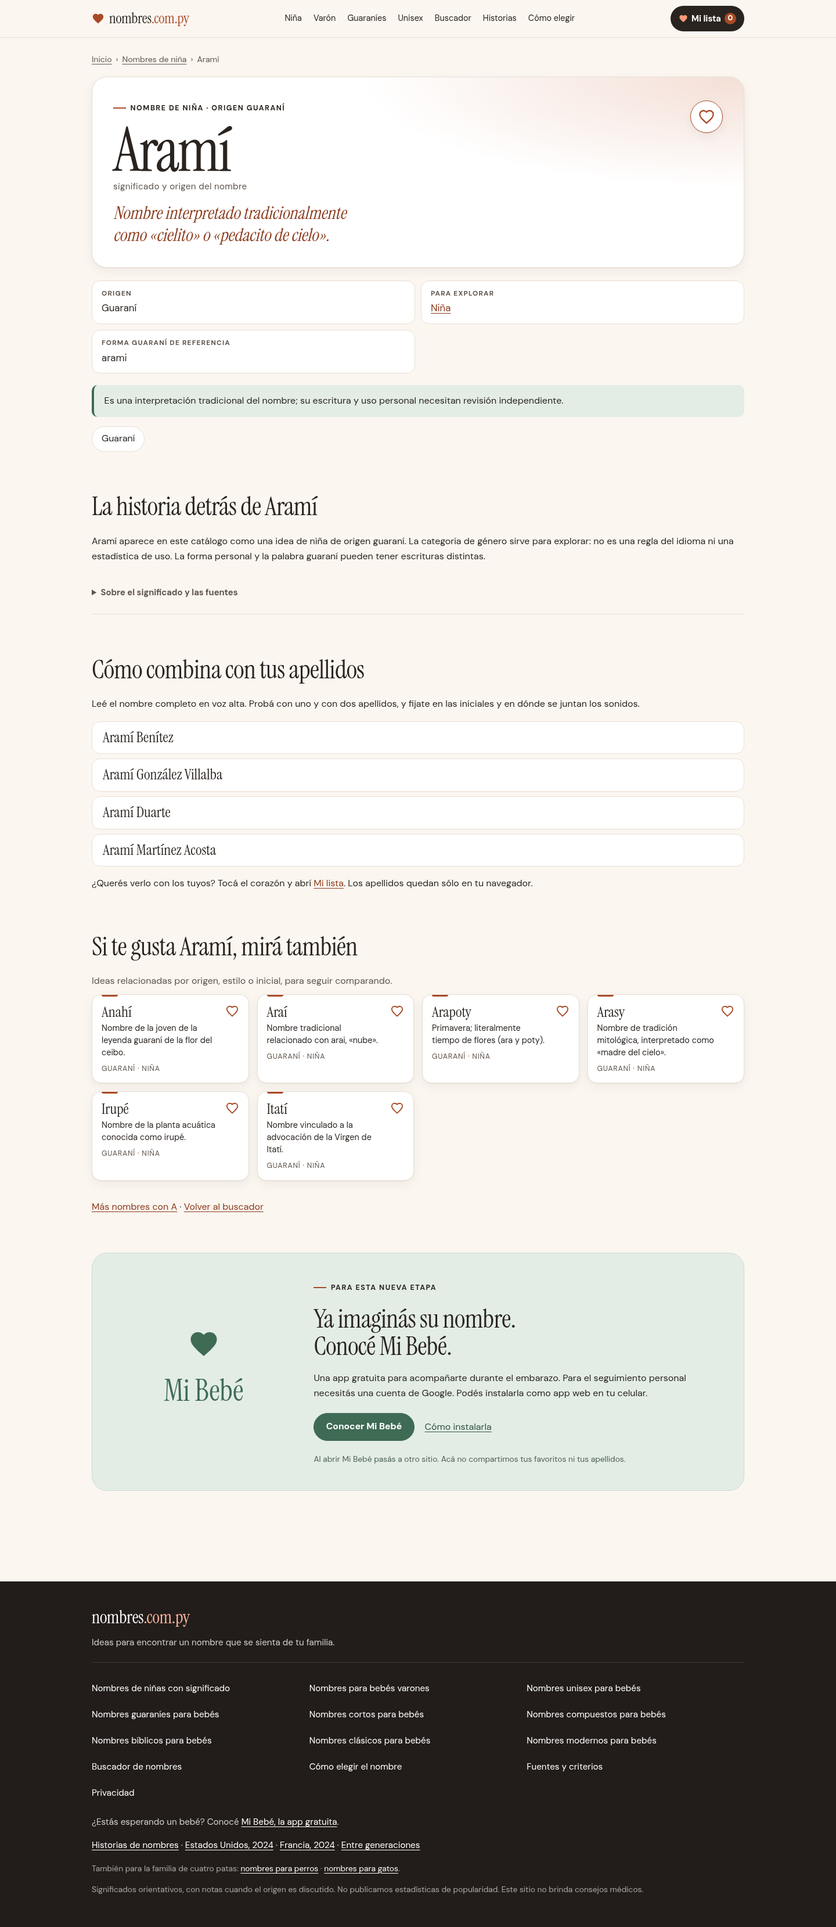
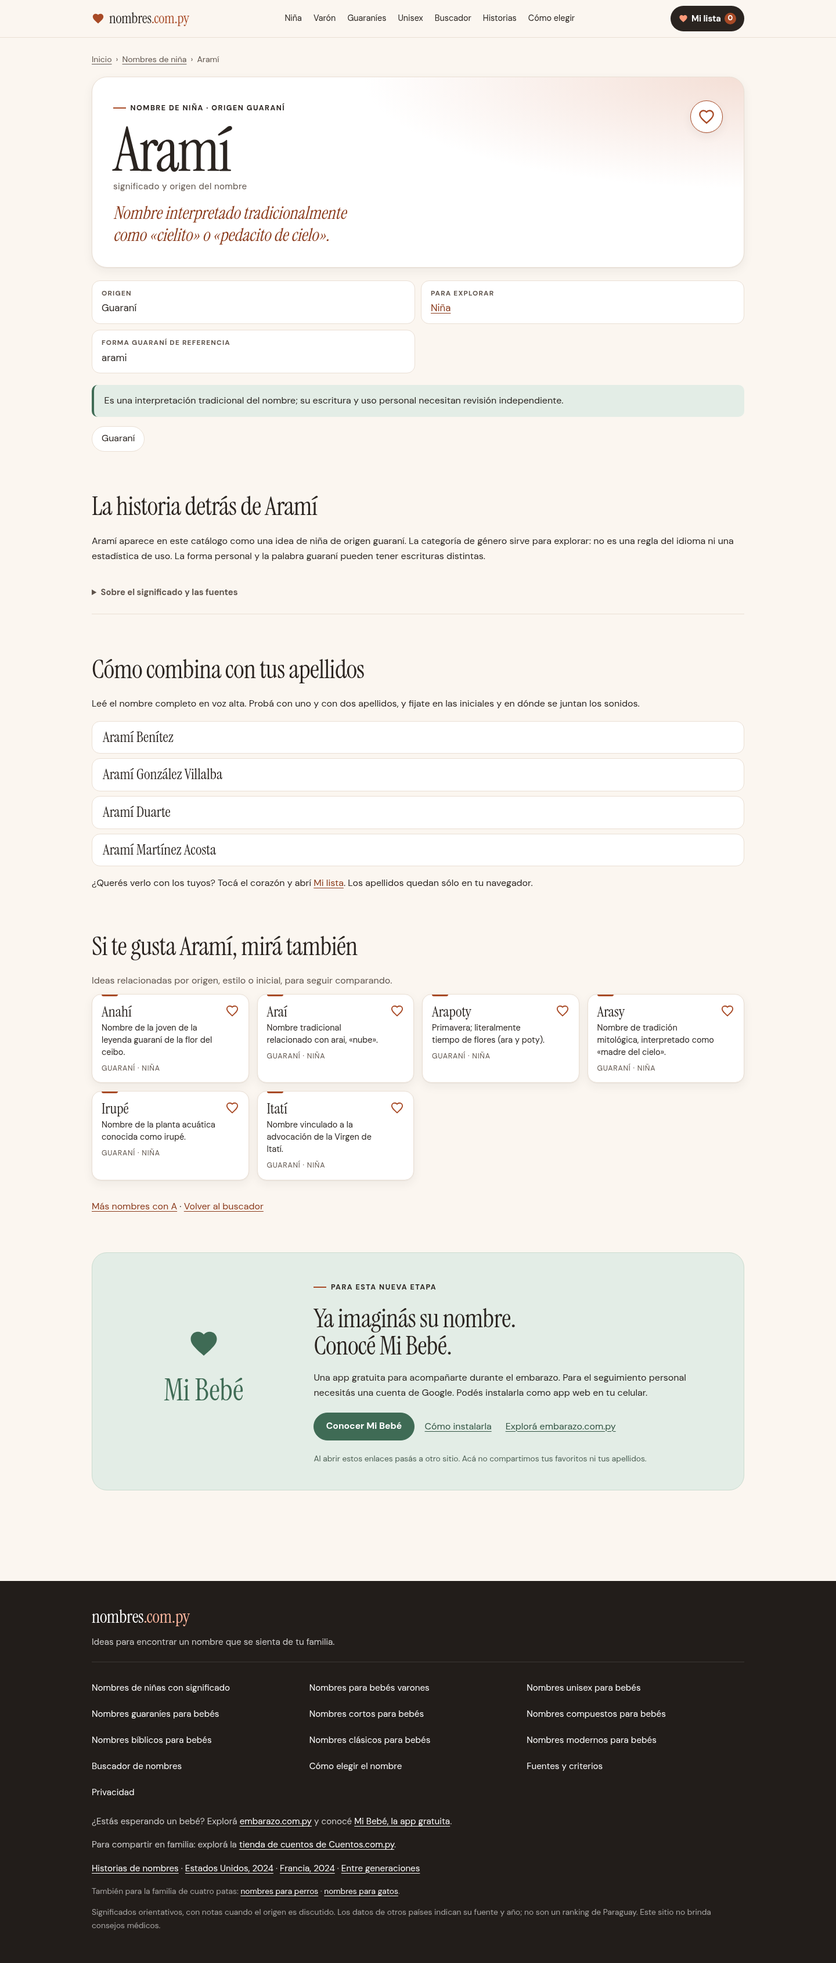
Add nofollow family-site promotions and 80 keyword research seeds

diff --git a/partials/footer.php b/partials/footer.php
@@ -1,8 +1,9 @@
 <?php declare(strict_types=1); ?>
 <footer class="site-footer"><div class="wrap"><div class="foot-top"><a class="brand brand-foot" href="/">nombres<span>.com.py</span></a><p>Ideas para encontrar un nombre que se sienta de tu familia.</p></div>
 <nav aria-label="Pie de página"><ul><?php foreach ($copy['LISTS'] as $l): ?><li><a href="<?= e($l['route']) ?>"><?= e($l['h1']) ?></a></li><?php endforeach ?><li><a href="/elegir/">Buscador de nombres</a></li><li><a href="/como-elegir-nombre-de-bebe/">Cómo elegir el nombre</a></li><li><a href="/fuentes/">Fuentes y criterios</a></li><li><a href="/privacidad/">Privacidad</a></li></ul></nav>
-<p>¿Estás esperando un bebé? Conocé <a href="<?= e($site['app']) ?>">Mi Bebé, la app gratuita</a>.</p>
+<p>¿Estás esperando un bebé? Explorá <a href="<?= e($site['pregnancy']) ?>" rel="nofollow">embarazo.com.py</a> y conocé <a href="<?= e($site['app']) ?>" rel="nofollow">Mi Bebé, la app gratuita</a>.</p>
+<p>Para compartir en familia: explorá la <a href="<?= e($site['stories_shop']) ?>" rel="nofollow">tienda de cuentos de Cuentos.com.py</a>.</p>
 <p><a href="/historias-de-nombres/">Historias de nombres</a> · <a href="/nombres-en-estados-unidos/">Estados Unidos, 2024</a> · <a href="/nombres-en-francia/">Francia, 2024</a> · <a href="/tendencias-de-nombres/">Entre generaciones</a></p>
 <p class="fine">También para la familia de cuatro patas: <a href="/nombres-para-perros/">nombres para perros</a> · <a href="/nombres-para-gatos/">nombres para gatos</a>.</p>
-<p class="fine">Significados orientativos, con notas cuando el origen es discutido. No publicamos estadísticas de popularidad. Este sitio no brinda consejos médicos.</p>
+<p class="fine">Significados orientativos, con notas cuando el origen es discutido. Los datos de otros países indican su fuente y año; no son un ranking de Paraguay. Este sitio no brinda consejos médicos.</p>
 </div></footer></body></html>

diff --git a/partials/mi-bebe.php b/partials/mi-bebe.php
@@ -1,5 +1,5 @@
 <?php declare(strict_types=1); ?>
 <aside class="app-promo" aria-label="Conocé Mi Bebé">
 <div class="app-emblem" aria-hidden="true"><svg viewBox="0 0 24 24"><use href="#h"/></svg><span>Mi Bebé</span></div>
-<div class="app-copy"><p class="kicker">Para esta nueva etapa</p><h2>Ya imaginás su nombre.<br>Conocé Mi Bebé.</h2><p>Una app gratuita para acompañarte durante el embarazo. Para el seguimiento personal necesitás una cuenta de Google. Podés instalarla como app web en tu celular.</p><p class="row"><a class="btn" href="<?= e($site['app']) ?>">Conocer Mi Bebé</a><a class="app-text-link" href="<?= e($site['install']) ?>">Cómo instalarla</a></p><p class="fine">Al abrir Mi Bebé pasás a otro sitio. Acá no compartimos tus favoritos ni tus apellidos.</p></div>
+<div class="app-copy"><p class="kicker">Para esta nueva etapa</p><h2>Ya imaginás su nombre.<br>Conocé Mi Bebé.</h2><p>Una app gratuita para acompañarte durante el embarazo. Para el seguimiento personal necesitás una cuenta de Google. Podés instalarla como app web en tu celular.</p><p class="row"><a class="btn" href="<?= e($site['app']) ?>" rel="nofollow">Conocer Mi Bebé</a><a class="app-text-link" href="<?= e($site['install']) ?>" rel="nofollow">Cómo instalarla</a><a class="app-text-link" href="<?= e($site['pregnancy']) ?>" rel="nofollow">Explorá embarazo.com.py</a></p><p class="fine">Al abrir estos enlaces pasás a otro sitio. Acá no compartimos tus favoritos ni tus apellidos.</p></div>
 </aside>

diff --git a/content/editorial.php b/content/editorial.php
@@ -544,7 +544,7 @@ return array (
       1 => 'Cuando guardás un nombre como favorito, o escribís tus apellidos en la herramienta Probá con tu apellido, esos datos se guardan sólo en tu navegador, con el almacenamiento local del dispositivo (localStorage). No se envían a ningún servidor nuestro. Si borrás los datos del navegador o usás el modo incógnito, la lista desaparece.',
       2 => 'Si copiás un enlace para compartir, incluye solamente los nombres elegidos. Cualquier persona que reciba el enlace puede verlos. Los apellidos quedan en tu navegador y nunca se incluyen en ese enlace.',
       3 => 'Como cualquier sitio web, el servidor de alojamiento puede registrar datos técnicos básicos de las visitas, como la dirección IP y el navegador, con fines de seguridad y funcionamiento.',
-      4 => 'Mi Bebé es una aplicación externa. Al abrir sus enlaces pasás a app.embarazo.com.py o embarazo.com.py, donde se aplican sus propias condiciones. Acá no usamos píxeles, parámetros de seguimiento ni scripts de terceros.',
+      4 => 'Los enlaces a Mi Bebé, embarazo.com.py y la tienda de Cuentos.com.py llevan a otros sitios, donde se aplican sus propias condiciones. Al abrirlos no compartimos tu lista de favoritos ni tus apellidos. Acá no usamos píxeles, parámetros de seguimiento ni scripts de terceros.',
     ),
   ),
   'NOT_FOUND' =>

diff --git a/content/site.php b/content/site.php
@@ -5,9 +5,11 @@ return [
     'name' => 'nombres.com.py',
     'lang' => 'es-PY',
     'locale' => 'es_PY',
+    'pregnancy' => 'https://embarazo.com.py/',
     'app' => 'https://app.embarazo.com.py/',
     'install' => 'https://embarazo.com.py/instalar/',
     'weeks' => 'https://embarazo.com.py/semana/',
+    'stories_shop' => 'https://cuentos.com.py/',
     // Rename a URL only with an explicit old => new entry here.
     'redirects' => [],
 ];

diff --git a/docs/keyword-planner-seeds-80.md b/docs/keyword-planner-seeds-80.md
@@ -1,0 +1,135 @@
+# 80 Keyword Planner research seeds
+
+Prepared 17 October 2026. These are prioritized research inputs, not measured top keywords or validated search volumes. Seventy-two baby/name seeds and eight secondary pet seeds; ten batches of eight. Do not treat individual meanings as verified merely because they are keyword seeds. Future-year and country queries are research questions, not proof of a published ranking.
+
+In Keyword Planner, use Discover new keywords with Paraguay as the location and Spanish as the language. Run each batch separately to retain varied related ideas. Keep the last 12 complete months, monthly trend columns, location/language settings and close-variant notes. Export all relevant keyword ideas and the original seeds, including low-volume/zero rows; send the raw CSV files or paste all rows. If a global comparison is useful, export it separately with its geography labeled. No paid advertising campaign or keyword volume claim is part of this preparation.
+
+## 1. Paraguay and general searches
+
+```text
+nombres de bebé
+nombres para bebés en Paraguay
+nombres paraguayos
+nombres de niña
+nombres de varón
+nombres con significado
+buscador de nombres para bebés
+significado de mi nombre
+```
+
+## 2. Girls
+
+```text
+nombres para nenas
+nombres de niña bonitos
+nombres de niña originales
+nombres de niña poco comunes
+nombres de niña cortos
+nombres de niña modernos
+nombres de niña bíblicos
+nombres compuestos para niñas
+```
+
+## 3. Boys
+
+```text
+nombres para niños
+nombres de varón bonitos
+nombres de varón originales
+nombres de varón poco comunes
+nombres de varón cortos
+nombres de varón modernos
+nombres de varón bíblicos
+nombres compuestos para varones
+```
+
+## 4. Guaraní
+
+```text
+nombres guaraníes
+nombres guaraníes para niñas
+nombres guaraníes para varones
+nombres guaraníes unisex
+nombres guaraníes cortos
+nombres guaraníes y su significado
+cómo se pronuncian los nombres guaraníes
+nombres indígenas de Paraguay
+```
+
+## 5. Styles and origins
+
+```text
+nombres unisex
+nombres bíblicos
+nombres antiguos
+nombres italianos
+nombres españoles
+nombres árabes
+nombres hebreos
+nombres de santos
+```
+
+## 6. Choosing and combinations
+
+```text
+cómo elegir el nombre de mi bebé
+nombres que combinen con el apellido
+segundos nombres para bebés
+nombres que combinen con María
+nombres que combinen con Juan
+nombres para gemelos
+nombres para mellizos
+nombres para hermanos
+```
+
+## 7. Individual meanings
+
+```text
+Aramí significado
+Jasy significado
+Yvoty significado
+Ñasaindy significado
+Mateo significado
+Sofía significado
+Benjamín significado
+Thiago significado
+```
+
+## 8. Trends and countries
+
+```text
+nombres populares en Paraguay
+nombres de bebé 2026
+nombres de bebé 2027
+nombres populares en Argentina
+nombres populares en Brasil
+nombres populares en España
+nombres populares en Estados Unidos
+nombres populares en Francia
+```
+
+## 9. Initials, themes and history
+
+```text
+nombres con A
+nombres con M
+nombres con S
+nombres inspirados en la naturaleza
+nombres que significan amor
+nombres que significan luz
+nombres que significan fuerza
+historia de los nombres
+```
+
+## 10. Pets (secondary)
+
+```text
+nombres para perros
+nombres para perritas
+nombres para perros machos
+nombres para perros en guaraní
+nombres para gatos
+nombres para gatas
+nombres para gatos machos
+nombres originales para mascotas
+```

diff --git a/docs/validation.md b/docs/validation.md
@@ -12,15 +12,19 @@
 - SQL failure tests: socket outage serves stale valid cache, no cache falls back to packaged file, and malformed source data entered directly in SQL is rejected while the last valid snapshot remains public. Twelve consecutive warm name-page requests produced **zero additional SQL SELECTs**. These tests used only the isolated local `nombres_test` fixture.
 - Chromium through Apache: **146 explicit layout/privacy checks**, plus search/favorites/surname/duel/sharing/storage assertions. Widths **360, 375, 768, 1024, 1440**, including with body clipping disabled: no horizontal document overflow. Mobile menu, Escape/focus, French diacritics, actual country narrative/table rendering, no-JS search and 48-result second-page navigation are covered.
 - Browser sessions observed no uncaught JavaScript errors, cookies, third-party resource requests or data-submission requests. Screenshots/report are under `docs/screenshots/` and `docs/browser-report.json`.
-- Final runtime artifact: **37 files**, byte-identical to their runtime sources; ZIP **148,758 bytes**. Tools/tests/docs/schema/credentials/Git are excluded. Separate phpMyAdmin SQL artifact: **574,202 bytes**, never inside the public ZIP. Artifacts can be regenerated; minor archive compression/timestamp variation is possible.
+- Final runtime artifact: **37 files**, byte-identical to their runtime sources; ZIP **148,947 bytes**. Tools/tests/docs/schema/credentials/Git are excluded. Separate phpMyAdmin SQL artifact: **574,202 bytes**, never inside the public ZIP. Artifacts can be regenerated; minor archive compression/timestamp variation is possible.
 - Local production Host-header rules redirect HTTP/www to HTTPS apex with path/query preserved. Compression, versioned asset cache headers, private-path denial and ACME challenge routing were exercised through actual Apache rules.
+
+## Nofollow promotion and keyword follow-up
+
+The subsequent link/copy revision passed **149,113 crawl checks** across **719 pages / 718 sitemap URLs** against the source checkout and runtime artifact, plus **146 layout/privacy checks** in Chromium through Apache. A focused check verified **48 promotion links on nine representative routes**: all pregnancy website, app, install-guide and Cuentos.com.py links carry `rel="nofollow"` and no tracking query. No remote resources were added. The earlier real SQL integration and full Apache crawl above remain the storage/router evidence; this follow-up does not change either implementation. Exactly 80 unique research seeds are provided in ten categories of eight, with no invented volumes.
 
 ## Local transfer measurements
 
 | Response | Gzip body bytes |
 |---|---:|
-| Home HTML | 6,588 |
-| Picker HTML (48 initial results) | 6,559 |
+| Home HTML | 6,679 |
+| Picker HTML (48 initial results) | 6,660 |
 | CSS | 5,997 |
 | JavaScript | 4,304 |
 | Lazy public name JSON | 14,645 |

diff --git a/README.md b/README.md
@@ -1,6 +1,6 @@
 # nombres.com.py
 
-A fast baby-name site for families in Paraguay. Spanish with voseo, PHP 8.2+, local fonts and assets, an editable PHP catalog and optional MySQL storage. No Composer or Node at runtime, analytics, tracking cookies, third-party scripts, lead forms or WhatsApp calls to action. The business goal is introducing expecting parents to **[Mi Bebé](https://app.embarazo.com.py/)** through plain links.
+A fast baby-name site for families in Paraguay. Spanish with voseo, PHP 8.2+, local fonts and assets, an editable PHP catalog and optional MySQL storage. No Composer or Node at runtime, analytics, tracking cookies, third-party scripts, lead forms or WhatsApp calls to action. The main business goal is introducing expecting parents to **[Mi Bebé](https://app.embarazo.com.py/)**. Plain `rel="nofollow"` links also promote the owner's pregnancy website and Cuentos.com.py story store; no shopping or tracking integration is loaded.
 
 ## Run and verify
 
@@ -64,5 +64,7 @@ The structure follows the `antonmarklundcom/php-site-template` repository's cont
 The original babyshower promotion linked to `https://babyshower.com.py/`, `/revelacion-de-genero/` and `/bienvenida-de-bebe/`. It has been replaced in rendered pages by Mi Bebé. Archived legacy source under `tools/legacy/` retains the migration input and is never served or included in the ZIP.
 
 The original Windows brief, manuals and custom skills were unavailable in the cloud. [The handoff](docs/manuals/nombres/README.md) includes proposed registry entries for your laptop; no claim is made that `C:` or `E:` was changed. No keyword volumes are invented; [SEO seeds](docs/seo-plan.md) are ready for a Keyword Planner export.
+
+For the current research round, use [80 categorized seeds](docs/keyword-planner-seeds-80.md), [a flat paste list](docs/keyword-planner-seeds-80.txt), or [the categorized CSV](docs/keyword-planner-seeds-80.csv). These are discovery inputs, not measured top-80 keywords.
 
 Higgsfield was requested with a 50-credit ceiling, but no callable Higgsfield MCP was available. No images were generated and no credits spent. [Art direction](docs/higgsfield-art-direction.md) records the proposed next step. [Future monetization ideas](docs/monetization-plan.md) are a separate proposal, with no products, partners or payment integrations activated.

diff --git a/docs/launch-tomorrow.md b/docs/launch-tomorrow.md
@@ -7,7 +7,7 @@ Nothing else needs approving tonight for the prepared code. It has not been merg
 3. Download `nombres-catalog.sql` from the workflow artifact (or generate it with `php tools/database.php sql-export`) and import it in phpMyAdmin. Expect 672 rows. Keep the SQL file outside `public_html`.
 4. Set up Hostinger Git for `antonmarklundcom/nombres`, `master`, deployment directory `public_html`. There is **no build/install command**. Back up/inspect any existing files before preparing the directory; the owner reported only a default page. Use one Git deploy after merge, with `.htaccess` included. Do not also upload the ZIP.
 5. Copy `config.example.php` to private `../nombres-config.php`, enter the actual database values securely, set `storage` to `mysql`, and ensure private `../nombres-cache` is writable by PHP. Temporarily enable diagnostics and check `X-Nombres-Storage: mysql` or `mysql-cache`, then turn diagnostics off. Full steps: [database.md](database.md).
-6. Verify live HTTPS home, a name with accents, a category, both country articles, search, favorites, Mi Bebé links, `/sitemap.xml`, `/robots.txt` and an unknown URL. Confirm private files return 404 and HTTP/www redirect to the HTTPS apex. Run the read-only crawler from this revision against the live domain: `python3 tests/crawl.py --base https://nombres.com.py`.
+6. Verify live HTTPS home, a name with accents, a category, both country articles, search, favorites, nofollow links to the pregnancy website/app and Cuentos.com.py, `/sitemap.xml`, `/robots.txt` and an unknown URL. Confirm private files return 404 and HTTP/www redirect to the HTTPS apex. Run the read-only crawler from this revision against the live domain: `python3 tests/crawl.py --base https://nombres.com.py`.
 7. Only after the live checks pass, enable Mi Bebé's `nombres_link` flag in that separate app. This task did not edit the app. Verify Search Console ownership and submit `https://nombres.com.py/sitemap.xml`; check actual indexing and mobile performance after launch.
 
 If the database takes longer, file mode is a complete launch option. MySQL is not needed for search engines to crawl the site. Switch later after importing and validating the same catalog. Preserve database backups before subsequent edits/deployments; never auto-seed over live edits.

diff --git a/docs/seo-plan.md b/docs/seo-plan.md
@@ -25,6 +25,8 @@ Search Console is enough to begin measuring search visibility without visitor pi
 
 ## Keyword Planner export seeds
 
+The current owner research batch has [exactly 80 seeds](keyword-planner-seeds-80.md), ten categories of eight. [Flat paste list](keyword-planner-seeds-80.txt); [categorized CSV](keyword-planner-seeds-80.csv). Seventy-two concern babies/names and eight concern pets. They are prioritized discovery seeds, not known top-volume keywords. Run batches separately and keep all relevant related ideas for the subsequent clustering/content plan.
+
 Target Paraguay, Spanish, and export raw CSV with location, language, date range, monthly trends and close-variant grouping. Keep accents and query variants. A separate worldwide/region comparison can clarify sparse local results; do not silently mix its volumes with Paraguay.
 
 | Cluster | Seeds |
@@ -45,4 +47,4 @@ Useful future pieces could explain Guaraní word versus adapted personal name, a
 
 A yearly source refresh should verify methodology and update the existing stable country URLs. Preserve original spellings and distinguish recorded sex categories from editorial gender labels. Never imply that a Spanish, Basque, Mapuche or foreign name is Guaraní merely because it occurs in Latin America.
 
-The only active promotion is Mi Bebé through plain links. Later name-print products are a separate proposal in `monetization-plan.md`; no storefront, affiliate links, ads, payments or data collection are implemented. Any outreach or commercial integration needs its own owner decision.
+The main promotion is Mi Bebé. The owner's pregnancy website and Cuentos.com.py story store also have plain `rel="nofollow"` links; the story link is secondary in the footer. Citations and internal name links retain their normal behavior. These link attributes do not guarantee a ranking benefit. Later name-print products are a separate proposal in `monetization-plan.md`; no storefront, affiliate links, ads, payments or data collection are implemented on this site. Any outreach or additional commercial integration needs its own owner decision.

diff --git a/docs/review-summary.md b/docs/review-summary.md
@@ -6,6 +6,7 @@ Replace the generated static site with PHP 8.2 templates and a single selected c
 - Add a connected Spanish history/trends section and U.S./France 2024 tables extracted from checked, pinned data copies. Keep country/year, spelling, precision and coverage explicit; no invented Paraguay popularity or 2026 rankings.
 - Add optional MySQL storage with utf8mb4 schema, private configuration example, phpMyAdmin import artifact, validated transactional editing CLI, public catalog cache and outage fallback. File mode remains a complete launch option. Database edits survive Git deploys; seeding is never automatic.
 - Limit server search to 48 results per page, retain accent-insensitive/no-JS search, add an accessible mobile menu and keep all assets local. Preserve local-only favorites, surnames, comparison and fragment sharing. Babies stay primary; pets are secondary.
+- Use nofollow text links for the owner's pregnancy website, Mi Bebé app/install guide and a secondary Cuentos.com.py story-store promotion. Keep citations and internal discovery links unaffected; add no remote assets or tracking. Include exactly 80 categorized Keyword Planner discovery seeds without invented volumes.
 - Include CI, runtime ZIP/SQL packaging, source/audit evidence, screenshots, SEO export seeds, tomorrow's launch checklist and operations-manual proposals. Future printed-name products and pending Higgsfield art are private proposals, not active storefronts or external integrations.
 
 Validation: PHP 8.2 lint, file catalog editing tests, statistical snapshot checks, full source/artifact/SQL crawls, real MariaDB imports/Unicode edits/cache invalidation/outage fallback, and Chromium interaction/layout checks at 360/375/768/1024/1440. See `docs/validation.md` for final counts and limitations. Remote CI and production Hostinger behavior must be checked separately.

diff --git a/docs/manuals/nombres/README.md b/docs/manuals/nombres/README.md
@@ -9,7 +9,7 @@ Prepared 17 October 2026. This is a repository copy for the owner's operations m
 - Public site: `https://nombres.com.py/`; deployment remains an owner hPanel action after approval/merge. Local validation does not establish live status.
 - Runtime: PHP 8.2+, Apache/LiteSpeed rewrite support; no Node runtime or package install. File mode needs no secrets; optional MySQL needs PDO MySQL, private credentials and a private writable cache.
 - Catalog: packaged `content/names.php`, optional `nombres_names` SQL table. File CLI: `tools/names.php`; SQL CLI: `tools/database.php`. Never auto-seed over database edits. See `docs/content-model.md` and `docs/database.md`.
-- Purpose: Spanish baby-name discovery for Paraguayan families, directing parents to Mi Bebé via plain links. Pet names are a secondary area.
+- Purpose: Spanish baby-name discovery for Paraguayan families, directing parents to Mi Bebé via plain nofollow links, with the owner's pregnancy website and a secondary Cuentos.com.py story-store link. Pet names are a secondary area.
 - App: `https://app.embarazo.com.py/`, free, Google account for personal tracking, installable web app. Install guide: `https://embarazo.com.py/instalar/`. Weekly pages: `https://embarazo.com.py/semana/<1-42>/`.
 - Reciprocal app flag: `nombres_link`, currently off according to the owner. Enable only after the site is deployed and checked live.
 - Verification: `./verify.sh`; optional browser dependency setup then `python3 tests/browser.py`; `python3 deploy/make-zip.py`; `./verify.sh --root dist/nombres-hostinger`.

diff --git a/docs/monetization-plan.md b/docs/monetization-plan.md
@@ -1,6 +1,6 @@
 # Future name-product proposal — not implemented
 
-The active business goal is helping expecting parents discover Mi Bebé through plain links. Baby-name usefulness, source quality, speed and trust come first. No product storefront, affiliate, partner relationship, price, payment integration, ad, tracking pixel, order form or outreach has been activated.
+The main business goal is helping expecting parents discover Mi Bebé through plain nofollow links, alongside the owner's pregnancy website. A secondary nofollow footer link now points to the owner's existing Cuentos.com.py story store, as requested. This is an outbound link, without an embedded checkout, remote scripts, personal data transfer or tracking parameters. Baby-name usefulness, source quality, speed and trust come first. No new product storefront, affiliate, partner relationship, price, payment integration, ad, tracking pixel, order form or outreach has been activated on nombres.com.py.
 
 Potential later products include nursery name prints, birth-announcement templates, personalized baby blankets/clothes and a printable family favorites keepsake. Compare own print-on-demand production against a reviewed local partner for delivery, quality, returns and margins. Do not imply an existing partner, invent reviews or publish offers before there is a real product and fulfillment process.
 
